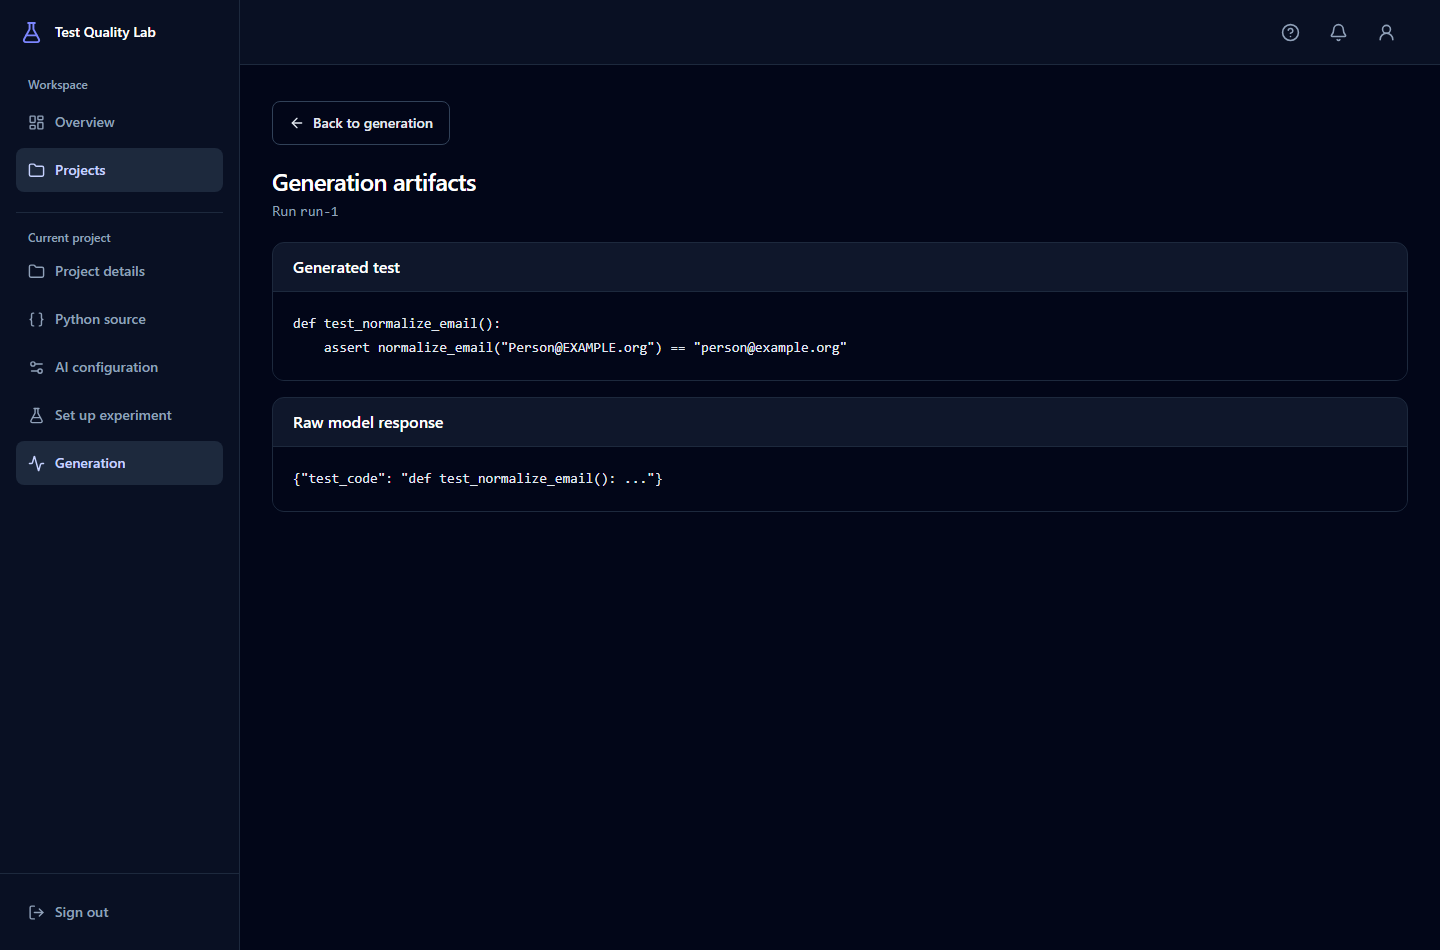
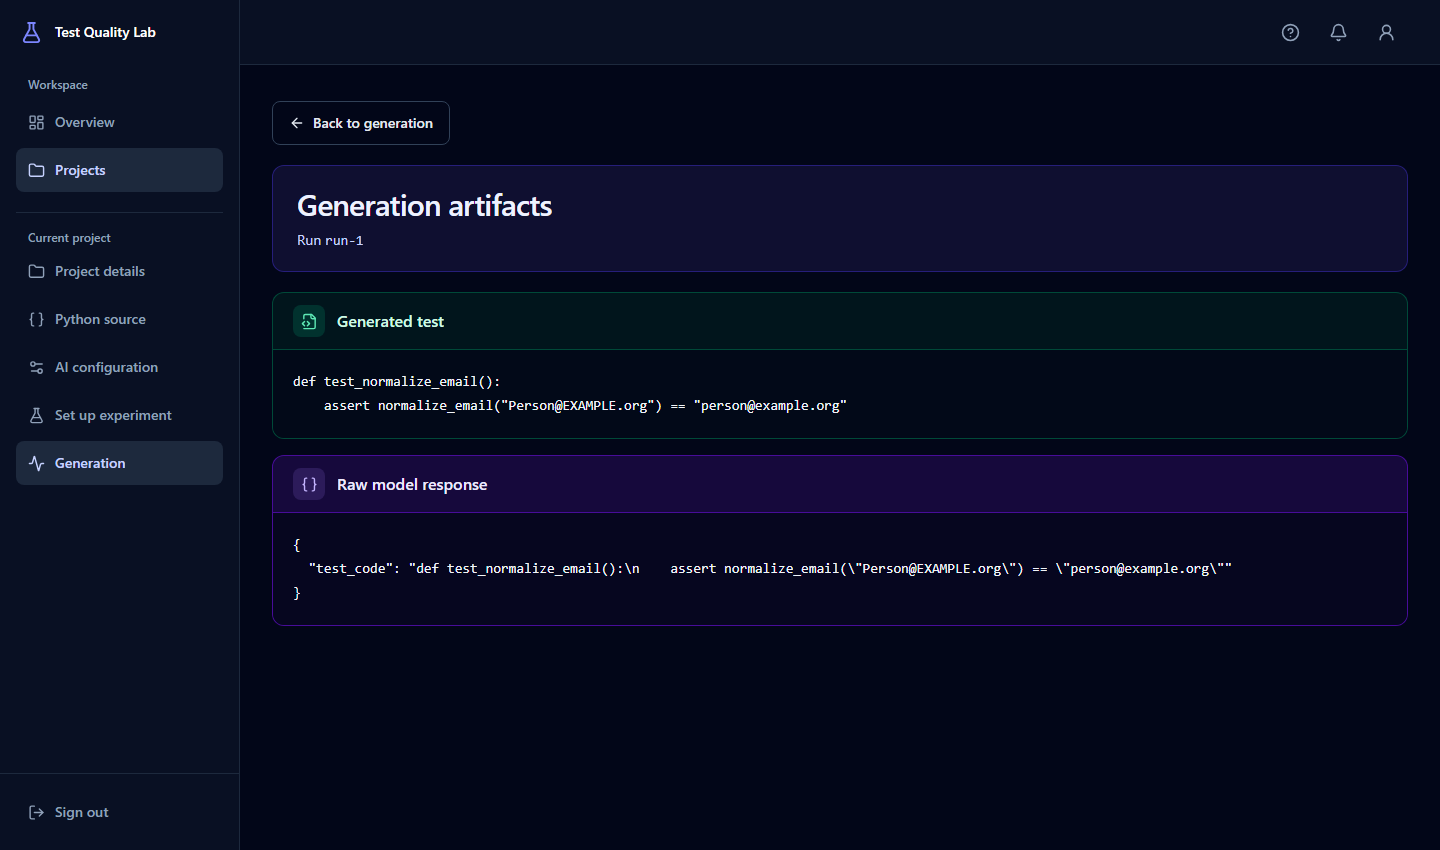
style(generation): distinguish artifact panels by color

diff --git a/frontend/src/features/generation/GenerationArtifactsPage.jsx b/frontend/src/features/generation/GenerationArtifactsPage.jsx
@@ -1,20 +1,43 @@
 import { useEffect } from 'react'
 import { useQuery } from '@tanstack/react-query'
-import { ArrowLeft, RefreshCw } from 'lucide-react'
+import { ArrowLeft, Braces, FileCode2, RefreshCw } from 'lucide-react'
 import { Link, useParams } from 'react-router-dom'
 import { getGenerationArtifacts } from '../../services/api'
 
 const buttonClass = 'inline-flex min-h-11 items-center justify-center gap-2 rounded-lg border border-slate-700 px-4 text-sm font-medium text-slate-200 hover:bg-slate-800 focus-visible:outline-2 focus-visible:outline-indigo-300'
 
-function Artifact({ id, title, text, emptyMessage }) {
+const artifactThemes = {
+  python: {
+    icon: FileCode2,
+    frame: 'border-emerald-800/70 bg-emerald-950/40',
+    heading: 'border-emerald-800/70 text-emerald-100',
+    iconSurface: 'bg-emerald-400/15 text-emerald-300',
+    selection: 'selection:bg-emerald-700 selection:text-white',
+  },
+  response: {
+    icon: Braces,
+    frame: 'border-violet-800/70 bg-violet-950/45',
+    heading: 'border-violet-800/70 text-violet-100',
+    iconSurface: 'bg-violet-400/15 text-violet-300',
+    selection: 'selection:bg-violet-700 selection:text-white',
+  },
+}
+
+function Artifact({ id, title, text, emptyMessage, theme }) {
+  const { icon: Icon, frame, heading, iconSurface, selection } = artifactThemes[theme]
   return (
-    <section aria-labelledby={id} className="min-w-0 overflow-hidden rounded-xl border border-slate-800 bg-slate-900">
-      <h2 id={id} className="border-b border-slate-800 px-4 py-3 text-base font-semibold text-white sm:px-5">{title}</h2>
+    <section aria-labelledby={id} className={`min-w-0 overflow-hidden rounded-xl border ${frame}`}>
+      <h2 id={id} className={`flex items-center gap-3 border-b px-4 py-3 text-base font-semibold sm:px-5 ${heading}`}>
+        <span className={`grid size-8 shrink-0 place-items-center rounded-lg ${iconSurface}`}>
+          <Icon size={17} aria-hidden="true" />
+        </span>
+        {title}
+      </h2>
       {text?.length ? (
-        <pre tabIndex={0} aria-labelledby={id} className="max-h-[34rem] overflow-auto whitespace-pre-wrap break-words bg-slate-950 p-4 font-mono text-sm leading-6 text-slate-200 focus-visible:outline-2 focus-visible:-outline-offset-2 focus-visible:outline-indigo-300 sm:p-5">
+        <pre tabIndex={0} aria-labelledby={id} className={`max-h-[34rem] overflow-auto whitespace-pre-wrap break-words bg-slate-950/80 p-4 font-mono text-sm leading-6 text-slate-100 focus-visible:outline-2 focus-visible:-outline-offset-2 focus-visible:outline-indigo-300 sm:p-5 ${selection}`}>
           <code>{text}</code>
         </pre>
-      ) : <p className="p-4 text-sm text-slate-400 sm:p-5">{emptyMessage}</p>}
+      ) : <p className="bg-slate-950/80 p-4 text-sm text-slate-300 sm:p-5">{emptyMessage}</p>}
     </section>
   )
 }
@@ -43,9 +66,9 @@ export function GenerationArtifactsPage({ session, onExpire }) {
       <Link to={`/projects/${encodeURIComponent(projectId)}/generation`} className={buttonClass}>
         <ArrowLeft size={16} aria-hidden="true" /> Back to generation
       </Link>
-      <header className="space-y-1">
-        <h1 className="text-2xl font-semibold tracking-tight text-white">Generation artifacts</h1>
-        <p className="break-all text-sm text-slate-400">Run <span className="font-mono">{runId}</span></p>
+      <header className="space-y-2 rounded-xl border border-indigo-800/60 bg-indigo-950/45 px-4 py-5 sm:px-6">
+        <h1 className="text-2xl font-semibold tracking-tight text-indigo-50 sm:text-3xl">Generation artifacts</h1>
+        <p className="break-all text-sm text-indigo-200">Run <span className="font-mono">{runId}</span></p>
       </header>
       {(query.isPending || status === 401 || (query.isError && query.isFetching)) &&
         <p role="status" className="text-sm text-slate-300">Loading generation artifacts…</p>}
@@ -61,9 +84,9 @@ export function GenerationArtifactsPage({ session, onExpire }) {
       )}
       {query.isSuccess && (
         <div className="space-y-4">
-          <Artifact id="parsed-test" title="Generated test" text={query.data.parsed_test}
+          <Artifact id="parsed-test" title="Generated test" theme="python" text={query.data.parsed_test}
             emptyMessage="No parsed test is available for this run." />
-          <Artifact id="raw-response" title="Raw model response" text={query.data.raw_response}
+          <Artifact id="raw-response" title="Raw model response" theme="response" text={query.data.raw_response}
             emptyMessage="No raw model response is available for this run." />
         </div>
       )}
